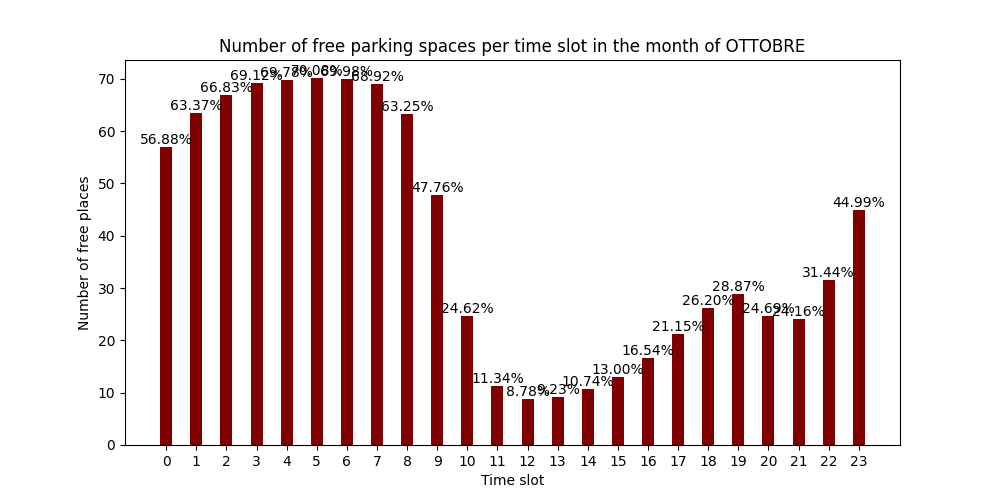
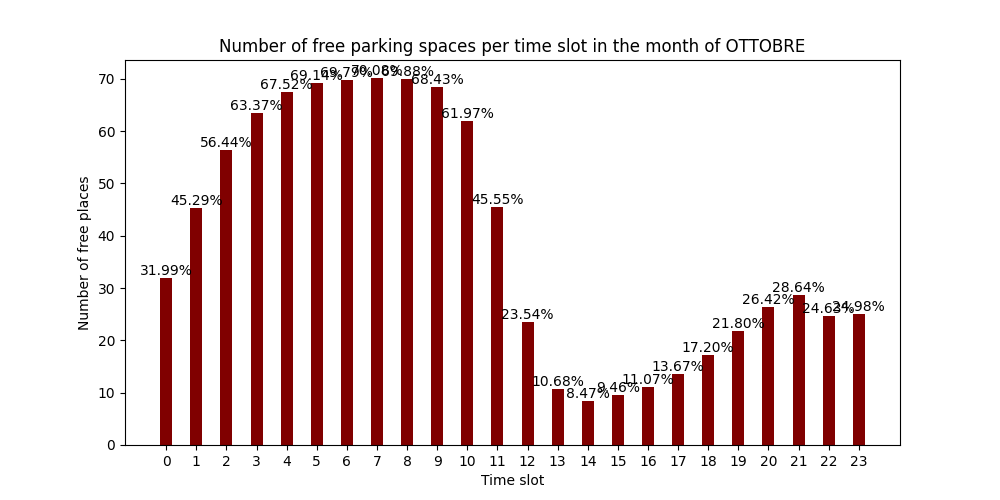
fixed timezone

Changed region(s): [[0.124, 0.12, 0.899, 0.81]]

diff --git a/utils/plot_function.py b/utils/plot_function.py
@@ -18,11 +18,11 @@ from constants.calendar import Month, Day
 # in % and the time slots in a month of your choice.
 def generate_free_parks_in_hours_for_month(month: int, parking: Parking):
     """Function that creates a plot based on the chosen month."""
-    months = [data.month for data in [datetime.strptime(couple[0], "%Y-%m-%d %H:%M:%S") \
+    months = [data.month for data in [couple[0] \
                                       for couple in parking.get_detections_list()]]
     month_couples = [couple for couple, choose_month in zip(parking.get_detections_list(), \
                                                   months) if choose_month == month]
-    hours = [data.hour for data in [datetime.strptime(couple[0], "%Y-%m-%d %H:%M:%S") \
+    hours = [data.hour for data in [couple[0] \
                                     for couple in month_couples]]
 
     occupied_spaces_by_time_slots = [[] for _ in range(24)]
@@ -51,12 +51,12 @@ def generate_free_parks_in_hours_for_month(month: int, parking: Parking):
 # in % and the time slots in a week day of your choice.
 def generate_free_parks_in_hours_for_day(day: int, parking: Parking):
     """Function that creates a plot based on the chosen month."""
-    days = [data.day for data in [datetime.strptime(couple[0], "%Y-%m-%d %H:%M:%S") \
+    days = [data.day for data in [couple[0]\
                                   for couple in parking.get_detections_list()]]
     # Selezioniamo le coppie del mese di dicembre
     day_couples = [couple for couple, choose_day in zip(parking.get_detections_list(), days) \
                    if choose_day == day]
-    hours = [data.hour for data in [datetime.strptime(couple[0], "%Y-%m-%d %H:%M:%S") \
+    hours = [data.hour for data in [couple[0] \
                                     for couple in day_couples]]
 
     occupied_spaces_by_time_slots = [[] for _ in range(24)]

diff --git a/utils/load_convert_function.py b/utils/load_convert_function.py
@@ -7,6 +7,7 @@ import os
 # The datetime module supplies classes to work with date and time. These classes provide a number
 # of functions to deal with dates, times, and time intervals.
 from datetime import datetime
+import pytz
 # The requests module allows to send HTTP requests using Python.
 import requests
 # File Python that contains parking class.
@@ -59,7 +60,9 @@ def generate_parking_list(dictionary: dict):
                 except ValueError as value:
                     print(value)
                 else:
-                    parking.add_detection((datetime.fromtimestamp(elem["properties"]["data"])\
-                                           .strftime("%Y-%m-%d %H:%M:%S"), elem\
+                    utc_datetime = datetime.fromtimestamp(elem["properties"]["data"])
+                    rome_timezone = pytz.timezone('Europe/Rome')
+                    roma_local_datetime = utc_datetime.replace(tzinfo=pytz.utc).astimezone(rome_timezone)
+                    parking.add_detection((roma_local_datetime, elem\
                                             ["properties"]["posti_occupati"]))
     return parking_list
